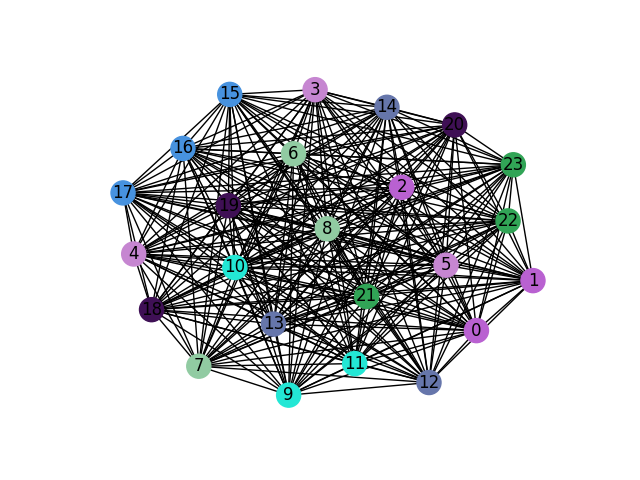
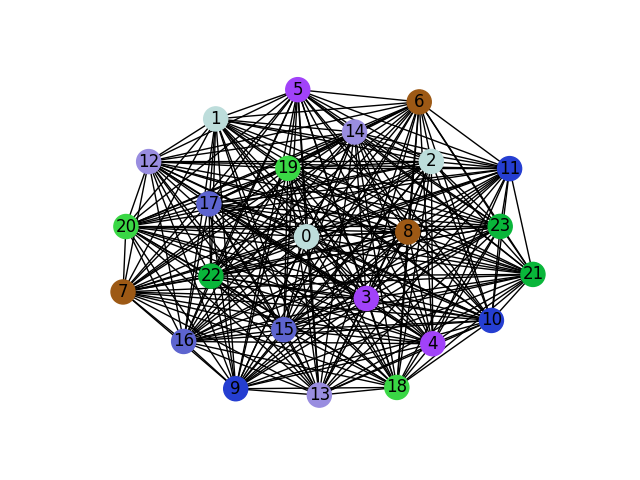
improved drawing!

Changed region(s): [[0.1562, 0.1562, 0.875, 0.875]]

diff --git a/graph_part.py b/graph_part.py
@@ -14,6 +14,9 @@ def draw_graph(G, partitioning, alg_name, graph_type, num):
         colors.append('#%06X' % randint(0, 0xFFFFFF))
     for i, c in zip(range(n), colors):
         for node in G:
+            if alg_name != "metis":
+                node = int(node)
+                #print(node)
             if node in partitioning[i]:
                 print("FIND", node, i)
                 color_map.append(c)
@@ -126,8 +129,9 @@ for num in [2, 4, 6, 8]:
     draw_graph(G, partitioning, "metis", "complete", num)
     for i in range(4):
         partitioning = get_partition(G, num, i)
-        print("part", i, partitioning)
-        for lst in partitioning:
-            for i in range(len(lst)):
-                lst[i] = int(lst[i])
+        #print("part", i, partitioning)
+        for k in range(len(partitioning)):
+            for j in range(len(partitioning[k])):
+                partitioning[k][j] = int(partitioning[k][j])
+        #print("part", i, partitioning)
         draw_graph(G, partitioning, "obj_func_" + str(i), "complete", num)
